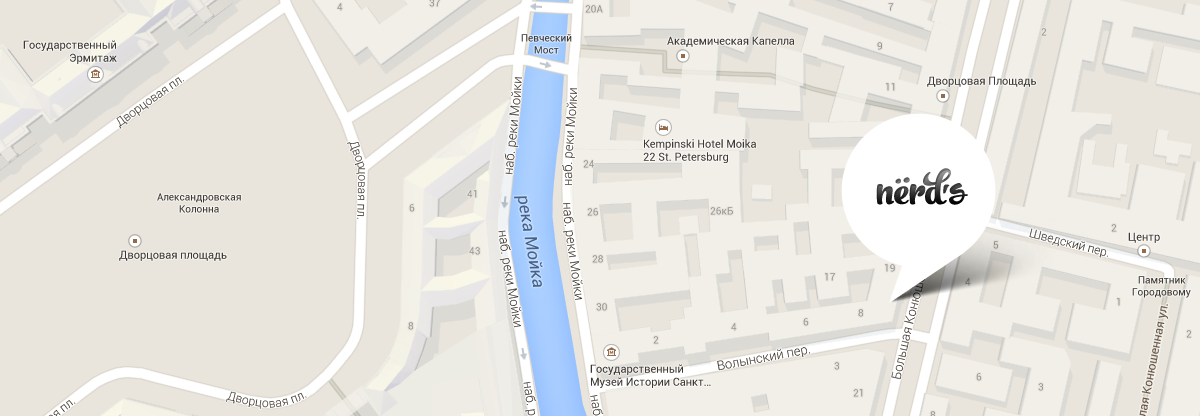
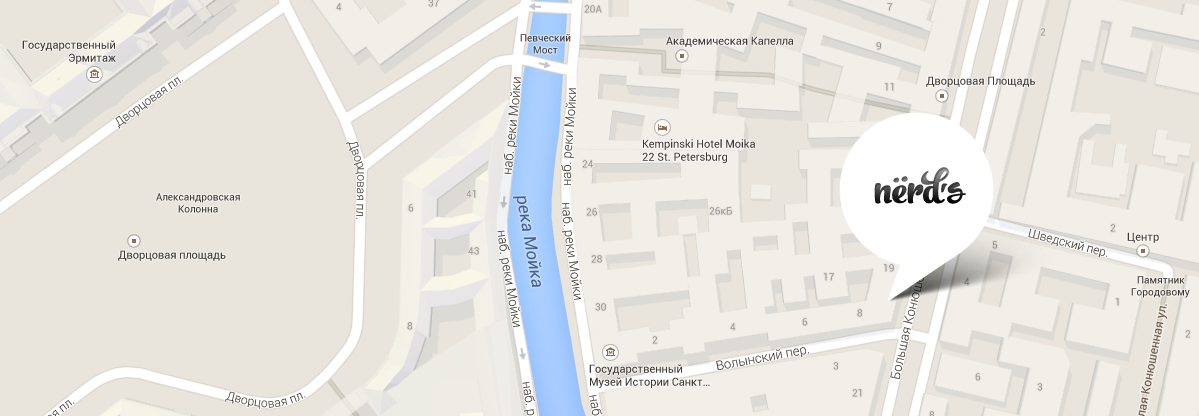
исправления папки img, доработка теней и классов

diff --git a/css/style.css b/css/style.css
@@ -646,33 +646,36 @@ body {
 	margin-bottom: 10px;
 	margin-top: 60px;
 	text-transform: uppercase;
+	color: black;
 }
 
 .icon-basket {
 	color: #a6a6a6;
+	margin-right: 10px;
 }
 
 .header-main-nav a,
 .header-top-menu-truck a {
 	text-decoration: none;
+	color: black;
 }
 
 .header-main-nav a:hover,
 .header-top-menu-truck a:hover {
-	color: #f69093;
+	color: #fb565a;
 }
 
 .header-main-nav a:active,
 .header-top-menu-truck a:active {
-	color: #b7b7b7;
+	color: #a8a8a8;
 }
 
 .header-top-menu-truck a:hover i {
-	color: #f69093;
+	color: #fb565a;
 }
 
 .header-top-menu-truck a:active i {
-	color: #b7b7b7;
+	color: #a8a8a8;
 }
 
 
@@ -761,17 +764,19 @@ body {
 	position: absolute;
 	left: 445px;
 	bottom: 36px;
+
 }
 
 .slider-button:hover {
 	background-color: #d6494d;
 	border-color: #d6494d;
+
 }
 
 .slider-button:active {
 	background-color: #b63538;
 	border-color: #b63538;
-	box-shadow: 0 0 10px rgba(0,0,0,0.5) inset;
+	box-shadow: 0 2px 5px rgba(0,0,0,0.5) inset;
  }
 
 /* end-slider */
@@ -780,15 +785,6 @@ body {
 
 .order {
 	padding-top: 50px;
-}
-
-.order-container:after {
-	display: block;
-	content: "";
-	border-bottom: 2px	solid lightgrey;
-	width: 880px;
-	
-
 }
 
 .order-item {
@@ -842,7 +838,7 @@ body {
 .button-order--red:active {
 	background-color: #b63538;
 	border-color: #b63538;
-	box-shadow: 0 0 10px rgba(0,0,0,0.5) inset;
+	box-shadow: 0 2px 5px rgba(0,0,0,0.5) inset;
  }
 
  .button-order--green:hover {
@@ -853,7 +849,7 @@ body {
 .button-order--green:active {
 	background-color: #009053;
 	border-color: #009053;
-	box-shadow: 0 0 10px rgba(0,0,0,0.5) inset;
+	box-shadow: 0 2px 5px rgba(0,0,0,0.5) inset;
  }
 
   .button-order--orange:hover {
@@ -864,7 +860,7 @@ body {
 .button-order--orange:active {
 	background-color: #c09b24;
 	border-color: #c09b24;
-	box-shadow: 0 0 10px rgba(0,0,0,0.5) inset;
+	box-shadow: 0 2px 5px rgba(0,0,0,0.5) inset;
  }
 
 .order-item-title {
@@ -893,11 +889,16 @@ body {
 	border-color: #efc84a;	
 }
 
+.order:after {
+	display: block;
+	content: "";
+	border-top: 2px	solid lightgrey;
+	width: 880px;
+	margin: 0 auto;
+}
 /* end-order */
 
 /* start-about-us */
-
-
 
 .about-us-info {
 	width: 575px;
@@ -1021,25 +1022,17 @@ body {
 	font-size: 16px;
 }
 
-
+.our-work:after {
+	display: block;
+	content: "";
+	border-bottom: 2px	solid lightgrey;
+	width: 880px;
+	margin: 0 auto;
+}
 
 /*end-our-work*/
 
 /*start-partners*/
-
-.partners-logo:before	{
-	display: block;
-	content: "";
-	border-top: 2px	solid lightgrey;
-	width: 880px;
-}
-
-.partners-logo:after	{
-	display: block;
-	content: "";
-	border-top: 2px	solid lightgrey;
-	width: 880px;
-}
 
 .partners-logo {
 	margin-bottom: 85px; 
@@ -1094,6 +1087,14 @@ body {
 	opacity: 1;
 }
 
+.partners-logo:after	{
+	display: block;
+	content: "";
+	border-bottom: 2px solid lightgrey;
+	width: 880px;
+	margin: 0 auto;
+}
+
 /*end-partners*/
 
 /*start-map*/
@@ -1102,7 +1103,6 @@ body {
 	margin: 0 auto;
 	background-image: url("../img/map1.png");
 	background-color: #e9e5dc;
-	width: 1200px;
 	height: 415px;
 	background-repeat: no-repeat;
 	background-position: center;
@@ -1123,7 +1123,8 @@ body {
 }
 
 .map-button {
-	width: 195px
+	width: 195px;
+	cursor: pointer;
 }
 
 .map-button:hover {
@@ -1134,7 +1135,7 @@ body {
 .map-button:active {
 	background-color: #b63538;
 	border-color: #b63538;
-	box-shadow: 0 0 10px rgba(0,0,0,0.5) inset;
+	box-shadow: 0 2px 5px rgba(0,0,0,0.5) inset;
 }
 
 .map-info .map-title {
@@ -1160,6 +1161,10 @@ body {
 
 .map-phone {
 	margin-bottom: 25px;
+}
+
+.container-map {
+	position: relative;
 }
 
 
@@ -1209,7 +1214,7 @@ body {
 .footer-social-list a:active {
 	background-color: #d6494d;
 	border-color: #d6494d;
-	box-shadow: 0 0 10px rgba(0,0,0,0.5) inset;
+	box-shadow: 0 2px 5px rgba(0,0,0,0.5) inset;
 }
 
 .footer-discount {

diff --git a/index.html b/index.html
@@ -93,32 +93,32 @@
 
 			<!--Order-->
 			<div class="order">
-				<div class="container order-container clearfix">
-						<div class="order-item order-item--red">
-							<div class="order-item-image" >
-								<img src="img/pc.png" width="136"	height="80" alt="pc">
-							</div>
-							<h2 class="order-item-title">Веб-сайты</h2>
-							<p class="order-item-text">Мир никогда не будет прежним после того как увидит ваш сайт!</p>
-							<a class="button button-order--red" href="#">Заказать</a>
+				<div class="container clearfix">
+					<div class="order-item order-item--red">
+						<div class="order-item-image" >
+							<img src="img/pc.png" width="136"	height="80" alt="pc">
 						</div>
-						<div class="order-item order-item--green">
-							<div class="order-item-image" >
-								<img src="img/phone.png" width="103" height="91" alt="phone">
-							</div>
-								<h2 class="order-item-title">Приложения</h2>
-								<p class="order-item-text">Покорите топ-10 приложений в Appstore и Google Play</p>
-								<a class="button button-order--green" href="#">Заказать</a>
-							</div>
-						<div class="order-item order-item--orange">
-							<div class="order-item-image" >
-								<img src="img/presentation.png" width="84" height="77" alt="presentation">
-							</div>
-							<h2 class="order-item-title">Презентации</h2>
-							<p class="order-item-text">Вы даже не подозреваете, насколько вы изумительны!</p>
-							<a class="button button-order--orange" href="#">Заказать</a>
-						</div>
+						<h2 class="order-item-title">Веб-сайты</h2>
+						<p class="order-item-text">Мир никогда не будет прежним после того как увидит ваш сайт!</p>
+						<a class="button button-order--red" href="#">Заказать</a>
 					</div>
+					<div class="order-item order-item--green">
+						<div class="order-item-image" >
+							<img src="img/phone.png" width="103" height="91" alt="phone">
+						</div>
+							<h2 class="order-item-title">Приложения</h2>
+							<p class="order-item-text">Покорите топ-10 приложений в Appstore и Google Play</p>
+							<a class="button button-order--green" href="#">Заказать</a>
+						</div>
+					<div class="order-item order-item--orange">
+						<div class="order-item-image" >
+							<img src="img/presentation.png" width="84" height="77" alt="presentation">
+						</div>
+						<h2 class="order-item-title">Презентации</h2>
+						<p class="order-item-text">Вы даже не подозреваете, насколько вы изумительны!</p>
+						<a class="button button-order--orange" href="#">Заказать</a>
+					</div>
+				</div>
 			</div>
 
 			<!--About-us-->
@@ -173,7 +173,6 @@
 				</div>
 			</div>
 				
-
 			<!--Map-->
 			<div class="map">
 				<div class="container clearfix">
@@ -191,8 +190,8 @@
 
 			<!--Footer-->
 			<div class="footer">
-				<div class="container clearfix">
-					<div class="footer-content">
+				<div class="container">
+					<div class="footer-content clearfix">
 						<ul class="footer-social-list clearfix">
 							<li><a class="social-vk" href="#"><i class="icon-vkontakte"></i></a></li>
 							<li><a class="social-fb" href="#"><i class="icon-facebook"></i></a></li>
